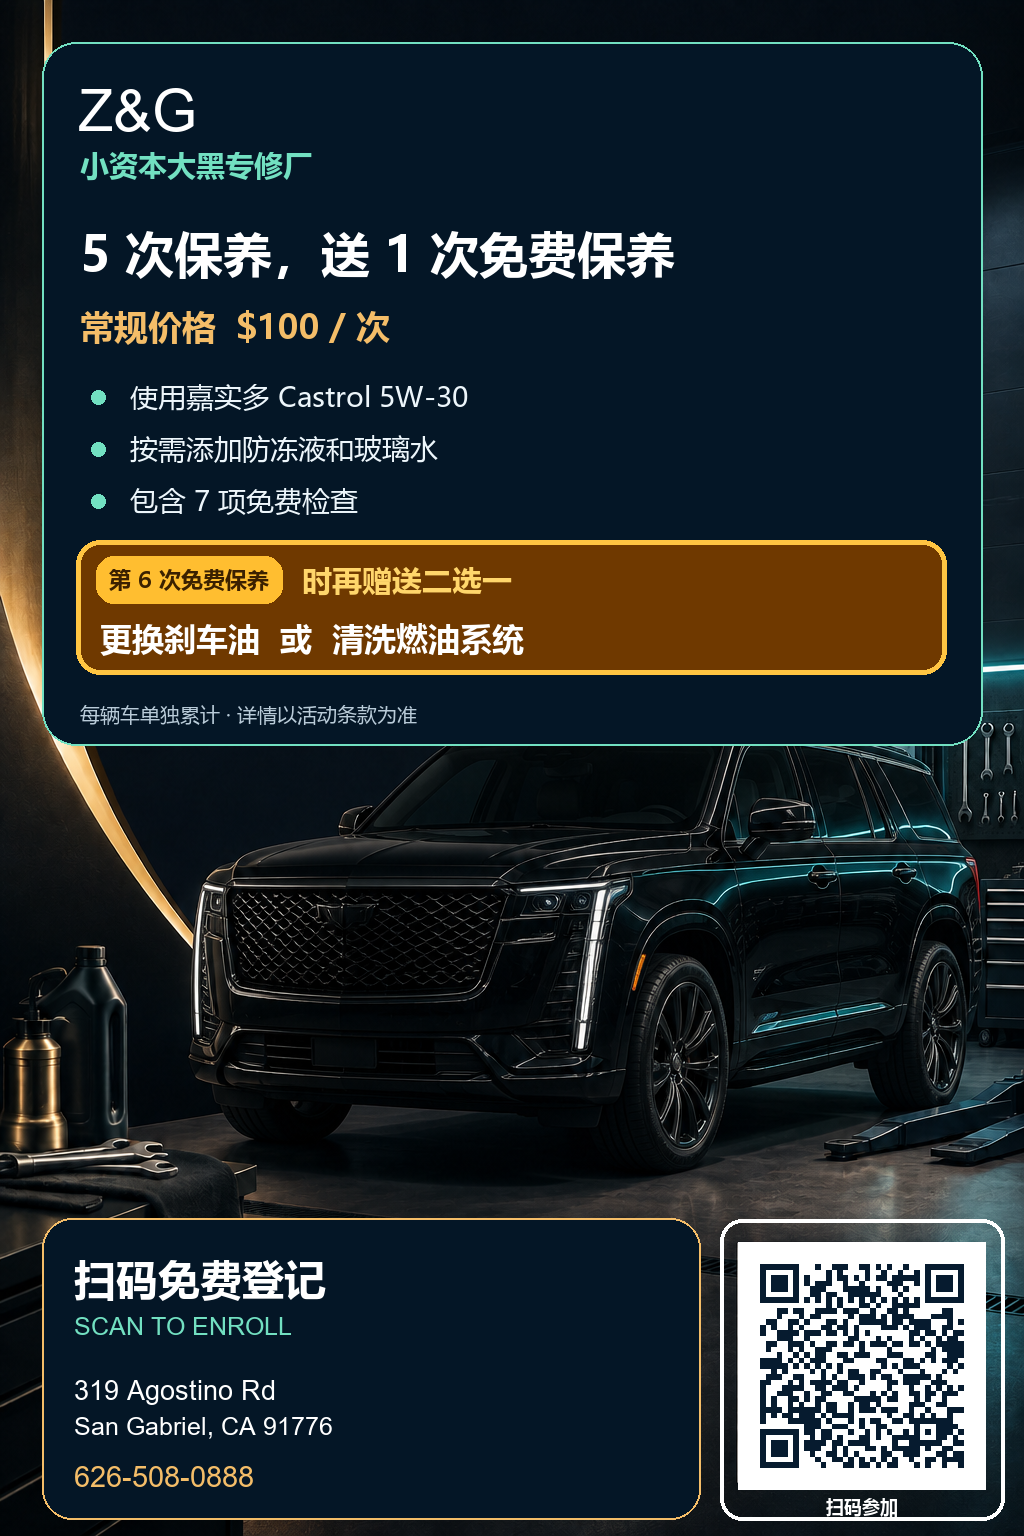
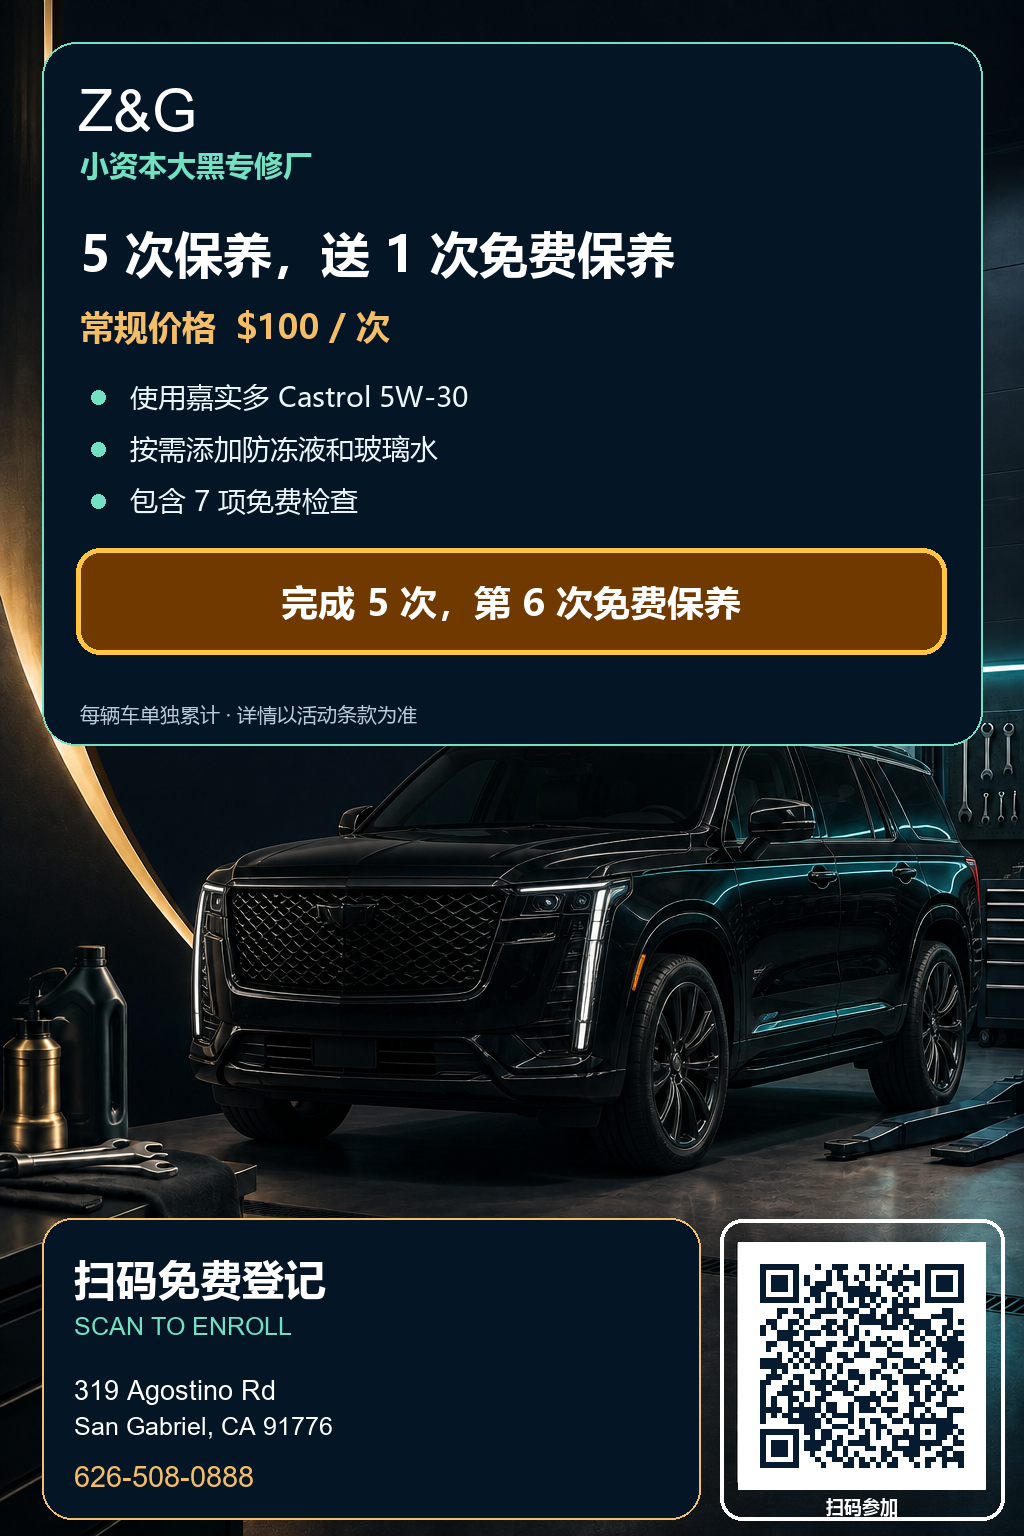
Remove add-on choice from maintenance reward

Changed region(s): [[0.0625, 0.3438, 0.9375, 0.4375]]

diff --git a/src/OilChangeRewardsPage.tsx b/src/OilChangeRewardsPage.tsx
@@ -10,33 +10,32 @@ type RewardProgress = {
   vehicles: Array<{ id: string; vinLast6?: string; plate?: string; year?: number; make?: string; model?: string; count?: number; rewardEarnedAt?: string; rewardExpiresAt?: string; rewardRedeemedAt?: string; status?: string }>;
 };
 const blankVehicle = (): VehicleForm => ({ vin: '', plate: '', state: 'CA', year: '', make: '', model: '', engine: '', unit: '', driverName: '', driverPhone: '' });
-const termsVersion = '2026-09-05-maintenance-v6';
+const termsVersion = '2026-09-07-maintenance-v7';
 
 const copy = {
   zh: {
-    eyebrow: 'Z&G 保养奖励计划', title: '5 次保养，送 1 次免费保养', subtitle: '并赠送“更换刹车油”或者“清洗燃油系统”二选一。使用嘉实多 Castrol 5W-30，按需添加防冻液和玻璃水，并包含 7 项免费检查。每辆车单独累计。', price: '常规价格：每次 $100', location: '319 Agostino Rd, San Gabriel, CA 91776 · 626-508-0888',
+    eyebrow: 'Z&G 保养奖励计划', title: '5 次保养，送第 6 次免费保养', subtitle: '使用嘉实多 Castrol 5W-30，按需添加防冻液和玻璃水，并包含 7 项免费检查。每辆车单独累计。', price: '常规价格：每次 $100', location: '319 Agostino Rd, San Gabriel, CA 91776 · 626-508-0888',
     personal: '个人客户', fleet: '公司 / 车队', contact: '联系人姓名', phone: '手机号码', email: '电子邮箱', company: '公司名称', tcp: 'TCP 号码', optional: '选填',
     vehicles: '参加活动的车辆', addVehicle: '添加另一辆车', remove: '删除', vin: 'VIN 车架号', plate: '车牌号码', state: '州', year: '年份', make: '品牌', model: '车型', engine: '发动机（选填）', unit: '车队编号（选填）', driver: '实际司机（选填）', driverPhone: '司机电话（选填）', vehicleNotice: '此处为客户预登记资料。车辆到店后，以本店扫描 VIN、识别车牌并由员工核对录入的正式车辆资料为准。',
     termsTitle: '活动规则与免责声明', agree: '我已阅读并同意中英文活动条款；如两种语言有冲突，以英文版本为准。', sms: '我同意接收本活动进度、奖励和维修相关短信。此项为选填；同意短信不是购买服务或参加活动的条件。可回复 STOP 退订。',
-    submit: '登记参加活动', submitting: '正在安全提交…', success: '登记已收到', successText: '我们会核对客户与车辆资料。通过后，登记日期之后符合条件的保养将按车辆分别累计；完成 5 次后，第 6 次同等保养免费，并可免费选择“清洗燃油系统”或“更换刹车油”其中一项。', existingSuccess: '老客户车辆已自动加入', existingSuccessText: '作为老客户，您的车辆已经自动添加到活动系统，并已自动累计 1 次保养记录。系统已为您打开现有活动进度，不会重复累计。', saveLink: '请保存您的专属进度查询链接', copyLink: '复制链接', copied: '已复制', error: '提交失败，请检查资料后重试。',
+    submit: '登记参加活动', submitting: '正在安全提交…', success: '登记已收到', successText: '我们会核对客户与车辆资料。通过后，登记日期之后符合条件的保养将按车辆分别累计；完成 5 次后，第 6 次同等保养免费。', existingSuccess: '老客户车辆已自动加入', existingSuccessText: '作为老客户，您的车辆已经自动添加到活动系统，并已自动累计 1 次保养记录。系统已为您打开现有活动进度，不会重复累计。', saveLink: '请保存您的专属进度查询链接', copyLink: '复制链接', copied: '已复制', error: '提交失败，请检查资料后重试。',
   },
   en: {
-    eyebrow: 'Z&G Maintenance Rewards', title: 'Complete 5 services. Get 1 maintenance service free.', subtitle: 'Plus, choose one complimentary add-on: brake-fluid replacement or fuel-system cleaning. Uses Castrol 5W-30, includes coolant and windshield-washer fluid top-offs as needed, and includes 7 complimentary inspections. Progress is tracked separately for each vehicle.', price: 'Regular price: $100 per service', location: '319 Agostino Rd, San Gabriel, CA 91776 · 626-508-0888',
+    eyebrow: 'Z&G Maintenance Rewards', title: 'Complete 5 services. Get the 6th maintenance service free.', subtitle: 'Uses Castrol 5W-30, includes coolant and windshield-washer fluid top-offs as needed, and includes 7 complimentary inspections. Progress is tracked separately for each vehicle.', price: 'Regular price: $100 per service', location: '319 Agostino Rd, San Gabriel, CA 91776 · 626-508-0888',
     personal: 'Individual', fleet: 'Business / Fleet', contact: 'Contact name', phone: 'Mobile number', email: 'Email address', company: 'Legal business name', tcp: 'TCP number', optional: 'Optional',
     vehicles: 'Participating vehicles', addVehicle: 'Add another vehicle', remove: 'Remove', vin: 'VIN', plate: 'License plate', state: 'State', year: 'Year', make: 'Make', model: 'Model', engine: 'Engine (optional)', unit: 'Fleet unit (optional)', driver: 'Driver name (optional)', driverPhone: 'Driver phone (optional)', vehicleNotice: 'Customer-entered information is preliminary. After arrival, the shop’s VIN scan, plate recognition, and staff-verified vehicle record will control.',
     termsTitle: 'Program Terms & Disclosures', agree: 'I have read and agree to the bilingual program terms. If the two versions conflict, the English version controls.', sms: 'I agree to receive transactional program progress, reward, and repair-related text messages. Optional; SMS consent is not a condition of purchase or participation. Reply STOP to opt out.',
-    submit: 'Enroll in rewards', submitting: 'Submitting securely…', success: 'Enrollment received', successText: 'We will review and match your records. Qualifying maintenance services after enrollment are tracked separately for each vehicle; after 5, the 6th equivalent service is complimentary and includes a choice of one complimentary add-on: fuel-system cleaning or brake-fluid replacement.', existingSuccess: 'Existing customer vehicle added', existingSuccessText: 'As an existing customer, your vehicle was automatically added to the rewards program with 1 maintenance visit already credited. We opened your existing progress and did not add a duplicate credit.', saveLink: 'Save your private progress link', copyLink: 'Copy link', copied: 'Copied', error: 'Submission failed. Please review the information and try again.',
+    submit: 'Enroll in rewards', submitting: 'Submitting securely…', success: 'Enrollment received', successText: 'We will review and match your records. Qualifying maintenance services after enrollment are tracked separately for each vehicle; after 5, the 6th equivalent service is complimentary.', existingSuccess: 'Existing customer vehicle added', existingSuccessText: 'As an existing customer, your vehicle was automatically added to the rewards program with 1 maintenance visit already credited. We opened your existing progress and did not add a duplicate credit.', saveLink: 'Save your private progress link', copyLink: 'Copy link', copied: 'Copied', error: 'Submission failed. Please review the information and try again.',
   },
 };
 
 function ProgramTerms() {
   return <div className="reward-terms-copy">
     <section lang="zh"><h3>中文活动条款</h3><ol>
-      <li>本活动常规保养价格为每次 $100。客户成功登记后，每辆登记车辆完成五次符合条件的付费保养，可获得同一车辆第六次同等保养免费，并可在“清洗燃油系统”或“更换刹车油”中选择一项作为当次免费附加服务；两项不可同时兑换。不同车辆的次数不得合并或转让。</li>
+      <li>本活动常规保养价格为每次 $100。客户成功登记后，每辆登记车辆完成五次符合条件的付费保养，可获得同一车辆第六次同等保养免费。不同车辆的次数不得合并或转让。</li>
       <li>每次符合条件的保养使用嘉实多 Castrol 5W-30 机油，机油数量依实际车型所需确定；同时更换适用的本店常用机油滤芯，并按需添加防冻液和玻璃水。标准人工、税费及环保费均包含在内。</li>
       <li>每次保养包含七项免费目视检查：① 皮带；② 刹车片与刹车盘；③ 轮胎胎压、胎纹及可见磨损；④ 电瓶与充电系统；⑤ 各类油液液位及可见泄漏；⑥ 车辆灯光；⑦ 雨刷片。免费检查不等同于拆卸检查或专项诊断。</li>
       <li>防冻液和玻璃水仅为正常范围内的按需补充；检查不包含检查后发现的零件更换、维修或专项诊断。发现需要额外维修或配件时，本店将另行报价并取得客户批准。</li>
-      <li>“清洗燃油系统”或“更换刹车油”的免费二选一项目仅限与第六次奖励保养同时使用，并须经到店检查确认车辆适用；不得拆分、延期、兑换现金或替换为其他服务。免费项目限本店标准服务范围，超出标准范围的额外材料或维修须另行报价并经客户批准。</li>
       <li>本活动指定使用嘉实多 Castrol 5W-30 机油；机油数量和滤芯适用性以 VIN、发动机及实际车型为准。特殊滤芯、柴油车及欧洲车型在本活动内不另收补差价，但车辆必须适合安全使用本活动指定机油，且服务须属于本店可正常、安全提供的范围。</li>
       <li>客户填写的车辆信息属于预登记资料。车辆到店后，以本店通过 VIN 扫描、车牌识别及员工核对后录入 ERP 的正式车辆资料为准。</li><li>只有成功登记后，在 Z&G Auto Body And Repair 完成并结清的正式工单才计数。经批准的月结车队工单在完工并记入月结账户后计数。取消、退款、冲销、重复或欺诈交易不计数，并可被撤销。</li>
       <li>奖励在第五次合格服务完成时取得，自取得日起十二个月内有效；不可兑换现金、出售、转让或与其他车辆进度合并。</li>
@@ -44,11 +43,10 @@ function ProgramTerms() {
       <li>短信同意为选填，不是购买服务或参加本活动的条件。客户资料依本店隐私政策处理。</li>
     </ol><p><b>重要：</b>本中文版本仅为便利翻译。如与英文版本存在差异，以英文版本为准，但不限制适用法律下不可放弃的消费者权利。</p></section>
     <section lang="en"><h3>English Program Terms (Controlling Version)</h3><ol>
-      <li>The regular program price is $100 per maintenance service. After successful enrollment, each registered vehicle earns one complimentary sixth maintenance service after five qualifying paid maintenance services, plus a choice of one complimentary add-on with that sixth service: fuel-system cleaning or brake-fluid replacement. Both add-ons may not be redeemed together. Progress is vehicle-specific and may not be combined or transferred.</li>
+      <li>The regular program price is $100 per maintenance service. After successful enrollment, each registered vehicle earns one complimentary sixth maintenance service after five qualifying paid maintenance services. Progress is vehicle-specific and may not be combined or transferred.</li>
       <li>Each qualifying maintenance service uses Castrol 5W-30 motor oil in the quantity required by the applicable vehicle, replaces an applicable commonly stocked oil filter, and tops off coolant and windshield-washer fluid as needed. Standard labor, taxes, and environmental fees are included.</li>
       <li>Each service includes seven complimentary visual inspections: (1) belts; (2) brake pads and rotors; (3) tire pressure, tread, and visible wear; (4) battery and charging system; (5) fluid levels and visible leaks; (6) exterior vehicle lights; and (7) windshield wiper blades. Complimentary inspections do not include disassembly or advanced diagnosis.</li>
       <li>Coolant and washer fluid are limited to normal top-off quantities. Inspections do not include replacement, repair, disassembly, or advanced diagnosis of any item found to need attention. Any additional repair or part requires a separate estimate and customer approval.</li>
-      <li>The choice of complimentary fuel-system cleaning or brake-fluid replacement must be used with the sixth reward service and is subject to inspection and vehicle eligibility. It may not be split, deferred, exchanged for cash, or substituted for another service. The add-on is limited to the shop's standard service; additional materials or repairs outside that scope require a separate estimate and customer approval.</li>
       <li>This program specifically uses Castrol 5W-30 motor oil. Oil quantity and filter fitment are determined from the VIN, engine, and actual vehicle configuration. No surcharge is added solely because a vehicle uses a specialty filter, is diesel-powered, or is a European model, but the vehicle must be suitable for safe use of the program oil and the service must be within the shop's normal capabilities.</li>
       <li>Vehicle information entered by a customer is preliminary. After arrival, the official ERP vehicle record verified by the shop through VIN scanning, plate recognition, and staff review controls.</li><li>Only qualifying repair orders completed after successful enrollment and fully settled count. Approved monthly-account fleet work counts when completed and posted to the monthly account. Canceled, refunded, reversed, duplicate, or fraudulent transactions do not count and may be removed.</li>
       <li>A reward is earned when the fifth qualifying service is completed and expires 12 months later. Rewards have no cash value and may not be sold, transferred, or combined with another vehicle.</li>

diff --git a/src/WorkOrderEditor.tsx b/src/WorkOrderEditor.tsx
@@ -326,7 +326,7 @@ export function WorkOrderEditor({ value, customers, vehicles, fleets, drivers, w
     if (rewardArrivalPromptKey.current === promptKey) return;
     rewardArrivalPromptKey.current = promptKey;
     window.alert(
-      `🎁 第 6 次免费保养提醒\n\n车辆：${selectedVehicle.plate || selectedVehicle.vin || `${selectedVehicle.year} ${selectedVehicle.make} ${selectedVehicle.model}`}\n\n该车辆已经完成 5 次符合条件的换机油保养，本次可享免费保养，并免费二选一：\n1. 更换刹车油\n2. 清洗燃油系统\n\n请工作人员在结账前与客户确认本次是否兑换。`,
+      `🎁 第 6 次免费保养提醒\n\n车辆：${selectedVehicle.plate || selectedVehicle.vin || `${selectedVehicle.year} ${selectedVehicle.make} ${selectedVehicle.model}`}\n\n该车辆已经完成 5 次符合条件的换机油保养，本次可享免费保养。\n\n请工作人员在结账前与客户确认本次是否兑换。`,
     );
   }, [rewardReadyForSixthVisit, rewardVehicleMatch?.id, selectedVehicle?.id, value?.id]);
   const vehicleOptions = useMemo(() => vehicles.map(item => ({
@@ -952,7 +952,7 @@ export function WorkOrderEditor({ value, customers, vehicles, fleets, drivers, w
         {rewardVehicleMatch.enrollmentStatus === 'pending'
           ? <span>活动申请正在等待审核；请先核对客户和车辆资料。</span>
           : rewardReadyForSixthVisit
-            ? <span>🎁 本次可作为第 6 次免费保养，并赠送“更换刹车油”或“清洗燃油系统”二选一{rewardVehicleMatch.reward_expires_at ? `；奖励有效期至 ${new Date(rewardVehicleMatch.reward_expires_at).toLocaleDateString()}` : ''}。结账前请确认是否兑换。</span>
+            ? <span>🎁 本次可作为第 6 次免费保养{rewardVehicleMatch.reward_expires_at ? `；奖励有效期至 ${new Date(rewardVehicleMatch.reward_expires_at).toLocaleDateString()}` : ''}。结账前请确认是否兑换。</span>
             : <span>当前有效保养累计：{Math.min(5, rewardVehicleMatch.qualifying_count)} / 5 次。本次符合条件的保养完成后可计入。</span>}
       </div>}
     </section>

diff --git a/src/version.css b/src/version.css
@@ -1,1 +1,1 @@
-.top-status>b::after{content:"v0.95.3"}
+.top-status>b::after{content:"v0.95.4"}
